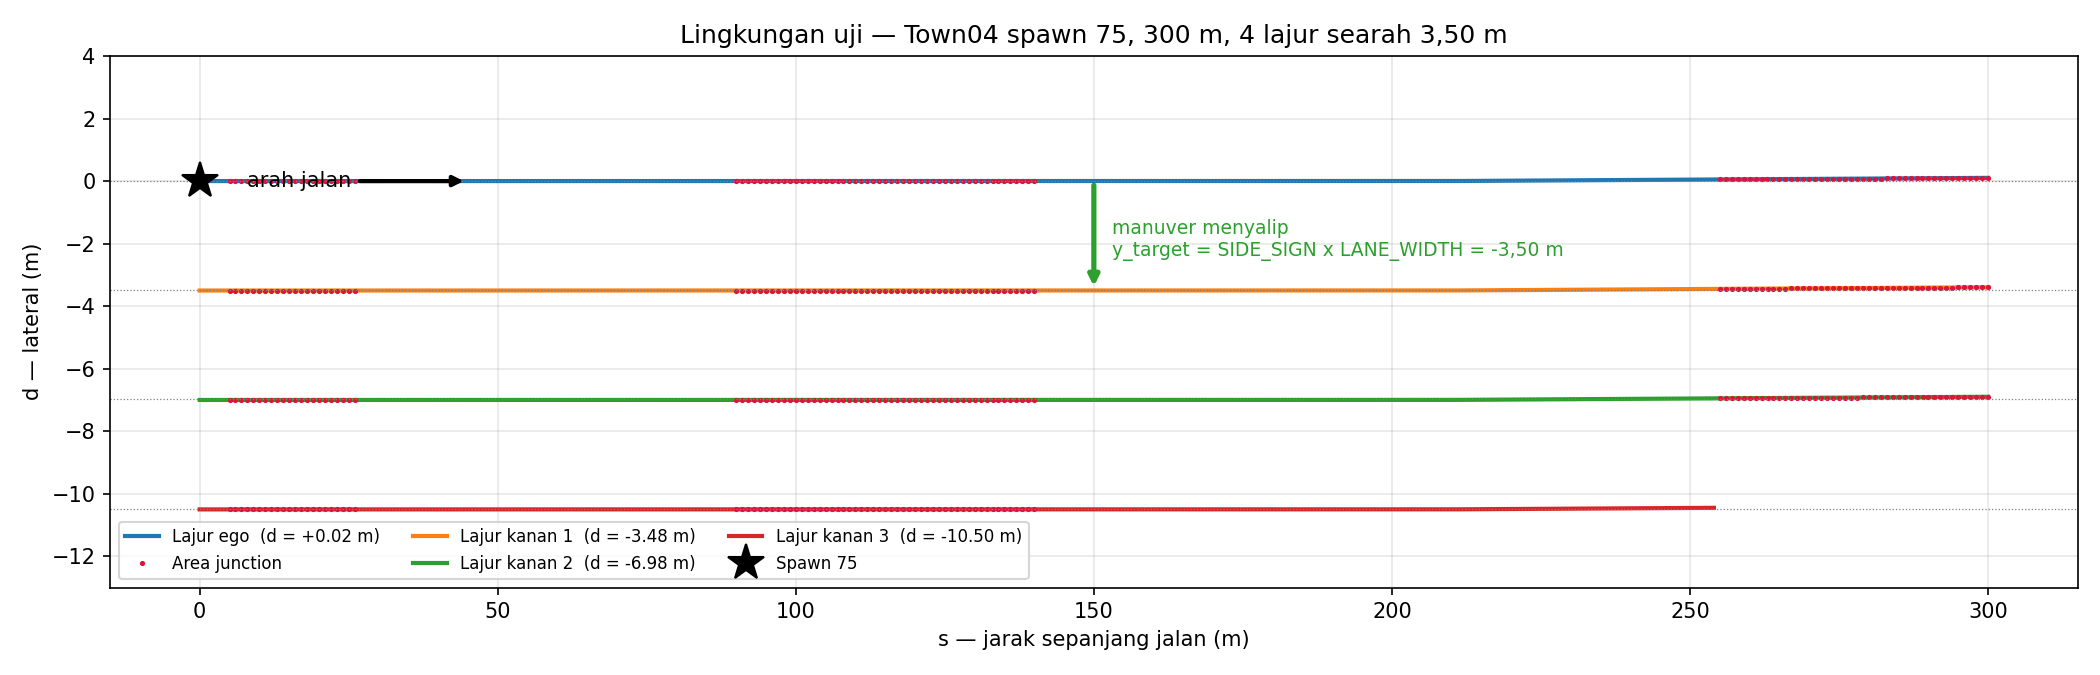
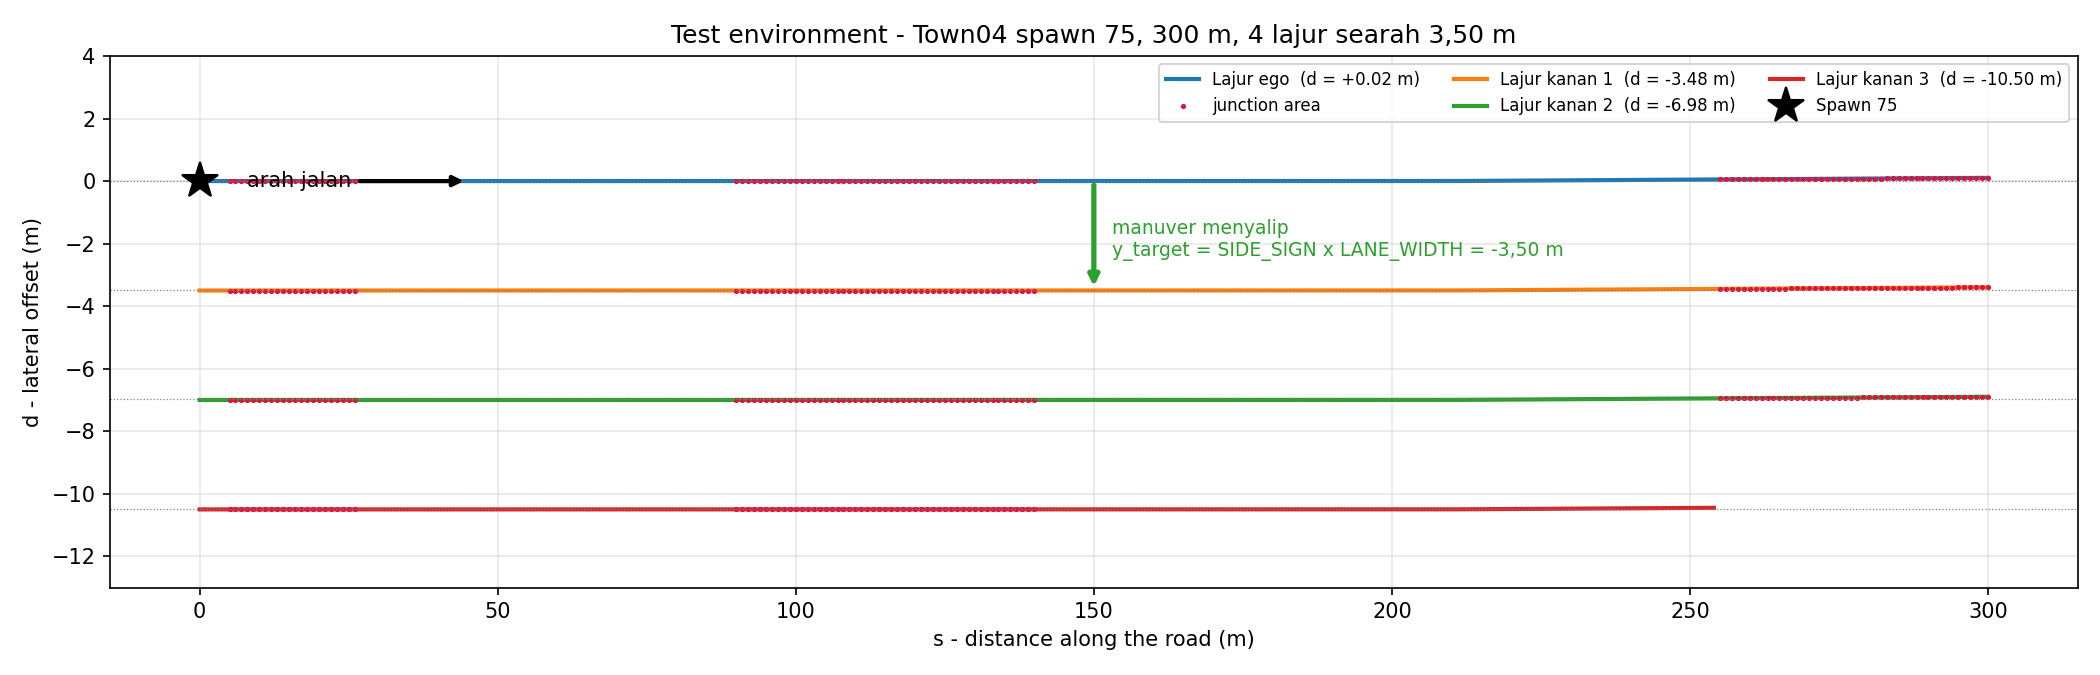
feat: add conceptual figures for sensors, localization, scenario, pipeline, MPC
plot_concepts.py membangkitkan lima gambar dari config saja -- tanpa simulator
dan tanpa log -- sehingga gaya visualnya seragam dan bisa dibangkitkan ulang di
mesin mana pun:

  sensor_rig.png          penempatan kamera tampak samping dan atas, aspek 1:1.
                          Tampak atas menunjukkan kenapa S3 tidak bisa: kendaraan
                          di lajur sebelah baru masuk bingkai setelah melewati
                          bumper ego.
  localization_frames.png tiga titik acuan pada satu kendaraan (sumbu belakang,
                          pusat bodi, kamera) berikut selisih 1,433 m yang sudah
                          tiga kali jadi sumber bias, plus rantai konversi frame.
  scenario_s1.png         susunan S1 berikut tabel parameter kedua kendaraan.
  pipeline.png            rantai end-to-end berikut laju tiap blok dan batas
                          frame ego/jalan.
  mpc_concept.png         receding horizon. Ramalan yang ditumpuk di satu sumbu
                          saling menutupi, jadi horizonnya digambar sebagai
                          batang waktu -- itu yang membuat "ramal 2 s, jalankan
                          50 ms" langsung terbaca.

show_lanes.py: label ke bahasa Inggris, legend ke kanan atas, dan ruang di atas
batas kenyamanan supaya legend tidak menimpa garisnya.

Satu warna aksen saja di seluruh gambar. Palet lebar dan kotak pastel membuat
gambar teknik terlihat seperti poster; yang dibutuhkan slide adalah kontras.

diff --git a/plot_concepts.py b/plot_concepts.py
@@ -1,0 +1,326 @@
+"""Conceptual figures for the slides: sensor rig, frames, planner, MPC, pipeline.
+
+Read from config only -- no simulator, no logs. One consistent style across all
+of them so a deck built from these does not look assembled from five sources.
+
+    python plot_concepts.py            # all figures
+    python plot_concepts.py --only rig
+"""
+import argparse
+import json
+import os
+
+import matplotlib
+matplotlib.use('Agg')
+import matplotlib.pyplot as plt
+import numpy as np
+from matplotlib.patches import Polygon, Rectangle
+
+import config
+
+# Satu warna aksen saja. Palet lebar dan kotak pastel membuat gambar teknik
+# terlihat seperti poster; yang dibutuhkan slide adalah kontras, bukan variasi.
+GARIS, AKSEN, REDUP = '#22303f', '#b5462f', '#94a3ad'
+plt.rcParams.update({'font.size': 9, 'axes.edgecolor': GARIS, 'axes.linewidth': .8,
+                     'axes.titlesize': 10, 'figure.titlesize': 11,
+                     'xtick.color': GARIS, 'ytick.color': GARIS,
+                     'axes.labelcolor': GARIS, 'text.color': GARIS,
+                     'legend.framealpha': 1.0, 'legend.edgecolor': REDUP})
+
+P = json.load(open(config.VEHICLE_PARAMS_JSON))
+SUMBU = -P['rear_axle_offset_x']          # sumbu belakang -> titik asal aktor
+KAM_X = config.KAMERA_DEPAN_SUMBU         # kamera di depan sumbu belakang
+TINGGI_BODI = 1.45
+
+
+def simpan(fig, nama):
+    jalur = os.path.join(config.OUT_DIR, nama)
+    fig.savefig(jalur, dpi=150, bbox_inches='tight')
+    plt.close(fig)
+    print(f'Figure: {jalur}')
+
+
+def rig():
+    """Penempatan kamera: tampak samping dan tampak atas."""
+    fig, ax = plt.subplots(1, 2, figsize=(11, 4.2))
+
+    # --- tampak samping: sumbu x diukur dari SUMBU BELAKANG ---
+    a = ax[0]
+    a.axhline(0, color=GARIS, lw=1.2)
+    a.add_patch(Rectangle((-1.1, 0.05), config.EGO_PANJANG, TINGGI_BODI,
+                          fc='none', ec=REDUP, lw=1.2))
+    for xr in (0.0, P['L']):                                     # roda
+        a.add_patch(plt.Circle((xr, 0.34), 0.34, fc='none', ec=REDUP, lw=1.2))
+    a.plot([0], [0], marker='|', ms=14, color=GARIS)
+    a.annotate('rear axle\n(MPC state origin)', (0, 0), xytext=(0, -0.75),
+               ha='center', fontsize=8, arrowprops=dict(arrowstyle='-', color=GARIS, lw=.8))
+    a.plot([KAM_X], [config.KAMERA_Z], marker='s', ms=7, color=AKSEN)
+    a.annotate(f'RGB + depth camera\n{config.KAMERA_Z} m above road',
+               (KAM_X, config.KAMERA_Z), xytext=(KAM_X + 1.5, config.KAMERA_Z + 0.75),
+               fontsize=8, color=AKSEN,
+               arrowprops=dict(arrowstyle='->', color=AKSEN, lw=.9))
+    a.annotate('', (0, -0.35), (KAM_X, -0.35), arrowprops=dict(arrowstyle='<->', color=GARIS, lw=.8))
+    a.text(KAM_X / 2, -0.28, f'{KAM_X} m', ha='center', fontsize=8)
+    a.annotate('', (KAM_X + 0.28, 0), (KAM_X + 0.28, config.KAMERA_Z),
+               arrowprops=dict(arrowstyle='<->', color=GARIS, lw=.8))
+    a.text(KAM_X + 0.38, config.KAMERA_Z / 2, f'{config.KAMERA_Z} m', fontsize=8)
+    a.set_xlim(-1.6, 5.2); a.set_ylim(-1.1, 3.0); a.set_aspect('equal')
+    a.set_title('Side view — placement follows the KITTI rig')
+    a.axis('off')
+
+    # --- tampak atas: aspek 1:1 supaya sudut 90 derajat terbaca benar ---
+    # Jangkauan dibatasi 20 m: menggambar sampai 50 m memaksa sumbu terdistorsi
+    # dan wedge-nya membanjiri bingkai. Jarak yang lebih jauh ditulis sebagai
+    # keterangan, bukan digambar.
+    b = ax[1]
+    for sgn, ls in ((0.5, '-'), (-0.5, ':'), (-1.5, '-')):
+        b.axhline(sgn * config.LANE_WIDTH, color=REDUP, lw=.8, ls=ls)
+    b.add_patch(Rectangle((-1.1, -config.EGO_LEBAR / 2), config.EGO_PANJANG,
+                          config.EGO_LEBAR, fc='none', ec=REDUP, lw=1.2))
+    setengah = np.radians(config.KAMERA_FOV / 2)
+    jauh = 12.0
+    b.add_patch(Polygon([(KAM_X, 0), (KAM_X + jauh, jauh * np.tan(setengah)),
+                         (KAM_X + jauh, -jauh * np.tan(setengah))],
+                        fc=AKSEN, alpha=.06, ec=AKSEN, lw=.9, ls='--'))
+    b.plot([KAM_X], [0], marker='s', ms=7, color=AKSEN)
+    b.text(KAM_X + 4.2, 1.1, '%.0f deg FOV' % config.KAMERA_FOV, color=AKSEN, fontsize=8)
+
+    # Titik ini yang menjelaskan kenapa S3 tidak bisa dijalankan dengan rig ini.
+    x_masuk = KAM_X + config.LANE_WIDTH
+    b.plot([x_masuk], [-config.LANE_WIDTH], marker='o', ms=6, mfc='white',
+           mec=AKSEN, mew=1.4)
+    b.annotate('a vehicle in the next lane enters\nthe frame only past this point',
+               (x_masuk, -config.LANE_WIDTH), xytext=(x_masuk + 1.2, -6.4),
+               fontsize=8, color=AKSEN,
+               arrowprops=dict(arrowstyle='->', color=AKSEN, lw=.9))
+    b.text(-1.1, config.LANE_WIDTH * 0.72, 'ego lane', fontsize=8, color=REDUP)
+    b.text(-1.1, -config.LANE_WIDTH * 1.28, 'overtaking lane', fontsize=8, color=REDUP)
+    b.set_xlim(-2.5, 13.5); b.set_ylim(-8.2, 6.4); b.set_aspect('equal')
+    b.set_title('Top view (to scale) — first 12 m of the field of view')
+    b.axis('off')
+
+    fig.suptitle('Sensor configuration — one forward RGB camera with co-located depth', y=1.04)
+    fig.text(0.5, -0.02,
+             'RGB %dx%d @ 20 Hz, %.0f deg FOV   |   depth co-located, ideal sensor   |   '
+             'stereo baseline %.2f m available but unused   |   '
+             'measured range 45.6 m, overtake trigger at ~32 m'
+             % (config.KAMERA_LEBAR, config.KAMERA_TINGGI, config.KAMERA_FOV,
+                config.KAMERA_BASELINE),
+             ha='center', fontsize=8, color=REDUP)
+    simpan(fig, 'sensor_rig.png')
+
+
+def frames():
+    """Tiga titik acuan pada satu kendaraan, dan rantai konversi frame."""
+    fig, ax = plt.subplots(1, 2, figsize=(11, 4.4))
+
+    a = ax[0]
+    a.add_patch(Rectangle((-SUMBU, -config.EGO_LEBAR / 2), config.EGO_PANJANG,
+                          config.EGO_LEBAR, fc='none', ec=REDUP, lw=1.2))
+    # Pusat bodi (1,433) dan kamera (1,68) hanya berjarak 0,25 m, jadi labelnya
+    # disebar ke arah berbeda -- ditumpuk vertikal, keduanya saling menutupi.
+    titik = [(0.0, 'rear axle', 'MPC state,\nplanner reference', (-2.6, 2.4), 'right'),
+             (SUMBU, 'body centre', 'safety zone,\nobstacle anchor', (0.1, 3.1), 'center'),
+             (KAM_X, 'camera', 'perception origin', (3.4, 2.0), 'left')]
+    for x, nama, guna, (tx, ty), ha in titik:
+        a.plot([x], [0], marker='o', ms=7, mfc='white', mec=AKSEN, mew=1.5, zorder=3)
+        a.annotate('%s\n%s' % (nama, guna), (x, 0.35), xytext=(tx, ty), ha=ha, fontsize=8,
+                   arrowprops=dict(arrowstyle='->', color=AKSEN, lw=.9,
+                                   connectionstyle='arc3,rad=0.15'))
+    a.annotate('', (0, -1.55), (SUMBU, -1.55),
+               arrowprops=dict(arrowstyle='<->', color=AKSEN, lw=1.2))
+    a.text(SUMBU / 2, -2.25, '%.3f m' % SUMBU, ha='center', fontsize=9, color=AKSEN)
+    a.text(SUMBU / 2, -3.1, 'mixing these two shifted every obstacle\nby this much - '
+                            'three times in this project', ha='center', fontsize=8, color=AKSEN)
+    a.set_xlim(-3.4, 6.2); a.set_ylim(-4.2, 4.6); a.set_aspect('equal'); a.axis('off')
+    a.set_title('Three reference points on one vehicle')
+
+    b = ax[1]
+    b.axis('off'); b.set_xlim(0, 1); b.set_ylim(0, 1)
+    tahap = [('CARLA world', 'left-handed, y points right\nactor origin = body centre'),
+             ('Right-handed', 'y -> -y,  yaw -> -yaw\norigin moved to rear axle'),
+             ('Road frame', 'rotated by road heading\nx = along road, y = lateral')]
+    for i, (nama, isi) in enumerate(tahap):
+        atas = 0.92 - i * 0.30
+        b.add_patch(Rectangle((0.04, atas - 0.20), 0.92, 0.20, fc='none', ec=GARIS, lw=1.0,
+                              transform=b.transAxes))
+        b.text(0.08, atas - 0.06, nama, fontsize=9.5, fontweight='semibold',
+               transform=b.transAxes)
+        b.text(0.08, atas - 0.165, isi, fontsize=8, color=REDUP, transform=b.transAxes)
+        if i < 2:                                    # panah MENURUN, searah bacaan
+            b.annotate('', (0.5, atas - 0.30), (0.5, atas - 0.21),
+                       xycoords=b.transAxes, textcoords=b.transAxes,
+                       arrowprops=dict(arrowstyle='->', color=GARIS, lw=1.1))
+    b.text(0.5, 0.04, 'localization.py is the only module allowed to convert frames',
+           ha='center', fontsize=8, color=REDUP, style='italic', transform=b.transAxes)
+    b.set_title('Frame conversion chain')
+
+    fig.suptitle('Localization - ground truth transform, converted once and only here', y=1.0)
+    simpan(fig, 'localization_frames.png')
+
+
+def pipeline():
+    """Rantai end-to-end berikut lajunya."""
+    fig, ax = plt.subplots(figsize=(11, 3.6))
+    ax.set_xlim(0, 100); ax.set_ylim(0, 34); ax.axis('off')
+
+    blok = [('Camera\nRGB + depth', 20, 'sensors.py'),
+            ('YOLOPX\n+ tracking', 20, 'perception.py\ntracking.py'),
+            ('Localization', 20, 'localization.py'),
+            ('Behavior FSM', 10, 'planning.py'),
+            ('Local planner\n9 candidates', 10, 'planning.py'),
+            ('MPC\nCasADi + IPOPT', 20, 'control.py'),
+            ('Throttle PI\n+ steer map', 20, 'control.py')]
+    lebar, celah = 11.6, 2.0
+    for i, (nama, hz, modul) in enumerate(blok):
+        x = i * (lebar + celah)
+        warna = AKSEN if hz == 10 else GARIS
+        ax.add_patch(Rectangle((x, 14), lebar, 11, fc='none', ec=warna, lw=1.1))
+        ax.text(x + lebar / 2, 21.0, nama, ha='center', va='center', fontsize=8.5)
+        ax.text(x + lebar / 2, 16.2, f'{hz} Hz', ha='center', fontsize=8, color=warna)
+        ax.text(x + lebar / 2, 11.6, modul, ha='center', va='top', fontsize=7, color=REDUP)
+        if i < len(blok) - 1:
+            ax.annotate('', (x + lebar + celah, 19.5), (x + lebar, 19.5),
+                        arrowprops=dict(arrowstyle='->', color=GARIS, lw=1.0))
+
+    ax.annotate('', (0.5, 29.5), (95.0, 29.5), arrowprops=dict(arrowstyle='<-', color=REDUP, lw=.9))
+    ax.text(48, 30.4, 'CARLA synchronous tick — every command goes through simulation.tick',
+            ha='center', fontsize=8, color=REDUP)
+    # Batas frame ada SETELAH localization, bukan di tengah FSM.
+    batas = 2 * (lebar + celah) + lebar + celah / 2
+    ax.annotate('', (batas, 7.8), (batas, 13.6),
+                arrowprops=dict(arrowstyle='-', color=REDUP, lw=.8, ls=':'))
+    ax.text(batas - 2, 6.6, 'ego frame, relative to ego', ha='right', fontsize=8, color=REDUP)
+    ax.text(batas + 2, 6.6, 'road frame, absolute', ha='left', fontsize=8, color=REDUP)
+    ax.text(batas, 3.0, 'converted once, in localization.halangan_ego_ke_jalan  '
+                        '(the FSM then reads gaps back relative to the ego)',
+            ha='center', fontsize=8, color=REDUP, style='italic')
+    ax.set_title('End-to-end pipeline — one tick is 50 ms', pad=14)
+    simpan(fig, 'pipeline.png')
+
+
+def mpc():
+    """Receding horizon. Ramalan yang ditumpuk di satu sumbu saling menutupi,
+    jadi horizonnya digambar sebagai batang waktu di panel bawah."""
+    fig, ax = plt.subplots(2, 1, figsize=(11, 5.0), sharex=True,
+                           gridspec_kw=dict(height_ratios=[2.1, 1]))
+    T, dt, N = 4.0, config.MPC_DT, config.MPC_N
+    jeda = 0.6                       # jarak antar tick YANG DIGAMBAR, bukan yang nyata
+
+    def quintic(tt):
+        u = np.clip(tt / T, 0, 1)
+        return -config.LANE_WIDTH * (10 * u ** 3 - 15 * u ** 4 + 6 * u ** 5)
+
+    a = ax[0]
+    t = np.linspace(0, T, 200)
+    a.plot(t, quintic(t), '--', color=GARIS, lw=1.7, label='planner reference', zorder=3)
+    warna_tick = [AKSEN, '#4e7488', REDUP]
+    for i in range(3):
+        t0 = i * jeda
+        th = np.linspace(t0, t0 + N * dt, 60)
+        simpang = 0.28 * np.exp(-2.6 * (th - t0))
+        a.plot(th, quintic(th) + simpang, color=warna_tick[i], lw=1.3, zorder=2,
+               label='2 s prediction, recomputed every tick' if i == 0 else None)
+        a.plot([t0], [quintic(t0) + simpang[0]], marker='o', ms=5,
+               color=warna_tick[i], zorder=4)
+    te = np.linspace(0, config.FIXED_DELTA_SECONDS, 10)
+    a.plot(te, quintic(te) + 0.28 * np.exp(-2.6 * te), color=AKSEN, lw=5,
+           solid_capstyle='butt', zorder=5, label='actually executed: the first 50 ms')
+    a.set_ylabel('lateral position (m)')
+    a.set_ylim(-4.1, 0.9)
+    a.legend(loc='upper right', fontsize=8)
+    a.grid(alpha=.22)
+    a.set_title('Model predictive control - predict 2 s, execute 50 ms, discard the rest, repeat')
+
+    b = ax[1]
+    for i in range(3):
+        t0 = i * jeda
+        y = 2 - i
+        b.barh(y, N * dt, left=t0, height=.5, color=warna_tick[i], alpha=.2,
+               edgecolor=warna_tick[i], lw=1.0)
+        b.barh(y, config.FIXED_DELTA_SECONDS, left=t0, height=.5, color=warna_tick[i])
+        b.text(t0 - 0.07, y, 'tick %d' % (i + 1), ha='right', va='center',
+               fontsize=8, color=warna_tick[i])
+    b.text(jeda * 2 + N * dt + 0.08, 1, 'solid = executed\nshaded = predicted, then discarded',
+           va='center', fontsize=8, color=REDUP)
+    b.set_ylim(-0.4, 2.9); b.set_yticks([])
+    b.set_xlabel('time (s)')
+    b.spines[['left', 'right', 'top']].set_visible(False)
+    b.grid(axis='x', alpha=.22)
+    fig.text(0.5, -0.02, 'Ticks are drawn %.1f s apart so the horizons stay legible; '
+                         'the real spacing is %.0f ms.' % (jeda, config.FIXED_DELTA_SECONDS * 1e3),
+             ha='center', fontsize=8, color=REDUP, style='italic')
+    fig.tight_layout()
+    simpan(fig, 'mpc_concept.png')
+
+
+def scenario():
+    """Susunan skenario S1 berikut parameter kedua kendaraan."""
+    fig, ax = plt.subplots(2, 1, figsize=(11, 5.2),
+                           gridspec_kw=dict(height_ratios=[1.35, 1]))
+
+    a = ax[0]
+    for sgn in (0.5, -0.5, -1.5):
+        a.axhline(sgn * config.LANE_WIDTH, color=REDUP, lw=.8,
+                  ls=':' if sgn == -0.5 else '-')
+    a.text(-12.5, 0, 'ego lane', fontsize=8, color=REDUP, va='center')
+    a.text(-12.5, -config.LANE_WIDTH, 'overtaking\nlane', fontsize=8, color=REDUP, va='center')
+
+    gap, v_ego, v_tgt = config.SKENARIO['S1'][0][0], config.EGO_V0, config.SKENARIO['S1'][0][2]
+    for x, pj, lb, warna, nama, ve in (
+            (0.0, P['length'], P['width'], AKSEN, 'ego', v_ego),
+            (gap, config.LAIN_PANJANG, config.LAIN_LEBAR, GARIS, 'target', v_tgt)):
+        a.add_patch(Rectangle((x - pj / 2, -lb / 2), pj, lb, fc='none', ec=warna, lw=1.3))
+        a.annotate('', (x + pj / 2 + 7, 0), (x + pj / 2 + 1, 0),
+                   arrowprops=dict(arrowstyle='->', color=warna, lw=1.2))
+        # Nama dan kecepatan DI ATAS kendaraannya: ditaruh di bawah, keduanya
+        # jatuh ke lajur menyalip dan terbaca seolah milik lajur itu.
+        a.text(x, lb / 2 + 0.35, '%s  -  %.1f m/s (%.1f km/h)' % (nama, ve, ve * 3.6),
+               ha='center', va='bottom', fontsize=8.5, color=warna)
+
+    a.annotate('', (P['length'] / 2, -config.LANE_WIDTH),
+               (gap - config.LAIN_PANJANG / 2, -config.LANE_WIDTH),
+               arrowprops=dict(arrowstyle='<->', color=GARIS, lw=1.0))
+    a.text(gap / 2, -config.LANE_WIDTH + 0.35, 'initial gap %.0f m (body to body)' % gap,
+           ha='center', fontsize=8)
+    a.text(gap / 2, -config.LANE_WIDTH - 1.5,
+           'closing at %.1f m/s  ->  overtaking lane must be cleared before the gap runs out'
+           % (v_ego - v_tgt), ha='center', fontsize=8, color=REDUP)
+    a.set_xlim(-13, 74); a.set_ylim(-7.4, 3.6); a.axis('off')
+    a.set_title('Scenario S1 - flying overtaking, target lane empty')
+
+    b = ax[1]
+    b.axis('off'); b.set_xlim(0, 1); b.set_ylim(0, 1)
+    isi = [['Model', 'Dodge Charger 2020', 'Nissan Patrol'],
+           ['Length x width', '%.3f x %.3f m' % (P['length'], P['width']),
+            '%.3f x %.3f m' % (config.LAIN_PANJANG, config.LAIN_LEBAR)],
+           ['Wheelbase', '%.3f m' % P['L'], 'not modelled'],
+           ['Mass', '%.0f kg' % P['mass'], 'not modelled'],
+           ['Speed', '%.1f m/s  (%.1f km/h)' % (v_ego, v_ego * 3.6),
+            '%.1f m/s  (%.1f km/h)' % (v_tgt, v_tgt * 3.6)],
+           ['Control', 'MPC, closed loop', 'speed forced along the road'],
+           ['Start', 'spawn point 75, Town04', '%.0f m ahead, same lane' % gap]]
+    x = [0.01, 0.22, 0.60]
+    for j, k in enumerate(['', 'Ego', 'Target']):
+        b.text(x[j], 0.95, k, fontsize=9, fontweight='semibold', transform=b.transAxes)
+    b.plot([0.01, 0.99], [0.90, 0.90], color=GARIS, lw=.9, transform=b.transAxes)
+    for i, baris in enumerate(isi):
+        y = 0.79 - i * 0.118
+        for j, sel in enumerate(baris):
+            b.text(x[j], y, sel, fontsize=8, color=REDUP if j == 0 else GARIS,
+                   transform=b.transAxes)
+    b.text(0.01, -0.09, 'Road: straight 400 m section, lane width %.2f m. Target dimensions are '
+                        'assumed fixed - perception never measures them.' % config.LANE_WIDTH,
+           fontsize=8, color=REDUP, style='italic', transform=b.transAxes)
+    fig.tight_layout()
+    simpan(fig, 'scenario_s1.png')
+
+
+SEMUA = dict(rig=rig, frames=frames, scenario=scenario, pipeline=pipeline, mpc=mpc)
+
+if __name__ == '__main__':
+    ap = argparse.ArgumentParser()
+    ap.add_argument('--only', choices=list(SEMUA))
+    a = ap.parse_args()
+    for nama, fn in ([(a.only, SEMUA[a.only])] if a.only else SEMUA.items()):
+        fn()

diff --git a/show_lanes.py b/show_lanes.py
@@ -49,7 +49,7 @@ def plot_topdown(lanes, path):
         jn = sd[is_jn]
         if len(jn):
             ax.plot(jn[:, 0], jn[:, 1], '.', ms=3, color='crimson',
-                    label='Area junction' if i == 0 else None)
+                    label='junction area' if i == 0 else None)
         ax.axhline(sd[:, 1].mean(), ls=':', lw=.6, color='gray')
 
     ax.plot(0, 0, 'k*', ms=18, label=f'Spawn {config.SPAWN_IDX}', zorder=5)
@@ -60,12 +60,12 @@ def plot_topdown(lanes, path):
     ax.text(153, -1.9, 'manuver menyalip\ny_target = SIDE_SIGN x LANE_WIDTH = -3,50 m',
             fontsize=9, color='tab:green', va='center')
 
-    ax.set_xlabel('s — jarak sepanjang jalan (m)')
-    ax.set_ylabel('d — lateral (m)')
-    ax.set_title(f'Lingkungan uji — Town04 spawn {config.SPAWN_IDX}, '
+    ax.set_xlabel('s - distance along the road (m)')
+    ax.set_ylabel('d - lateral offset (m)')
+    ax.set_title(f'Test environment - Town04 spawn {config.SPAWN_IDX}, '
                  f'{LENGTH:.0f} m, 4 lajur searah 3,50 m')
     ax.set_ylim(-13, 4); ax.grid(alpha=.3)
-    ax.legend(loc='lower left', fontsize=8, ncol=3)
+    ax.legend(loc='upper right', fontsize=8, ncol=3)
     fig.tight_layout(); fig.savefig(path, dpi=150)
     print(f'Tampak atas : {path}')
 
@@ -103,7 +103,7 @@ def plot_candidates(path):
         pilihan = tr is best
         ax.plot(tr.states[0], tr.states[1], lw=3 if pilihan else 1,
                 color='tab:green' if pilihan else '0.65', zorder=3 if pilihan else 1,
-                label=f'TERPILIH: offset {offset:.1f} m, T={T:.1f} s, J={cost:.1f}'
+                label=f'selected: offset {offset:.1f} m, T = {T:.1f} s, J = {cost:.1f}'
                       if pilihan else None)
         t = np.arange(tr.states.shape[1]) * tr.dt
         ddy = np.gradient(np.gradient(tr.states[1], tr.dt), tr.dt)
@@ -111,16 +111,20 @@ def plot_candidates(path):
                  color='tab:green' if pilihan else '0.65', zorder=3 if pilihan else 1)
 
     ax.plot(0, 0, 'k*', ms=15, zorder=5)
-    ax.set_xlabel('x — maju (m)'); ax.set_ylabel('y — lateral (m)')
-    ax.set_title(f'{len(feasible)} kandidat lolos kelayakan'); ax.legend(fontsize=9)
+    ax.set_xlabel('x - along the road (m)'); ax.set_ylabel('y - lateral (m)')
+    ax.set_title(f'{len(feasible)} of 9 candidates pass the feasibility filters')
+    ax.legend(loc='upper right', fontsize=8)
     ax.grid(alpha=.3)
 
     ax2.axhline(config.MAX_LATERAL_ACCEL, color='crimson', lw=2,
-                label=f'batas kenyamanan {config.MAX_LATERAL_ACCEL:.0f} m/s²')
-    ax2.set_xlabel('t (s)'); ax2.set_ylabel('|percepatan lateral| (m/s²)')
-    ax2.set_title('Semua kandidat di bawah batas'); ax2.legend(fontsize=9); ax2.grid(alpha=.3)
+                label=f'comfort limit {config.MAX_LATERAL_ACCEL:.0f} m/s2')
+    ax2.set_xlabel('t (s)'); ax2.set_ylabel('|lateral acceleration| (m/s2)')
+    ax2.set_title('Every candidate stays under the limit')
+    # Ruang di atas batas: tanpa ini legend kanan atas menimpa garis merahnya.
+    ax2.set_ylim(top=config.MAX_LATERAL_ACCEL * 1.28)
+    ax2.legend(loc='upper right', fontsize=8); ax2.grid(alpha=.3)
 
-    fig.suptitle('Local planner — quintic lateral + quartic longitudinal')
+    fig.suptitle('Local planner - quintic lateral + quartic longitudinal')
     fig.tight_layout(); fig.savefig(path, dpi=150)
     print(f'Kandidat    : {path}')
 
